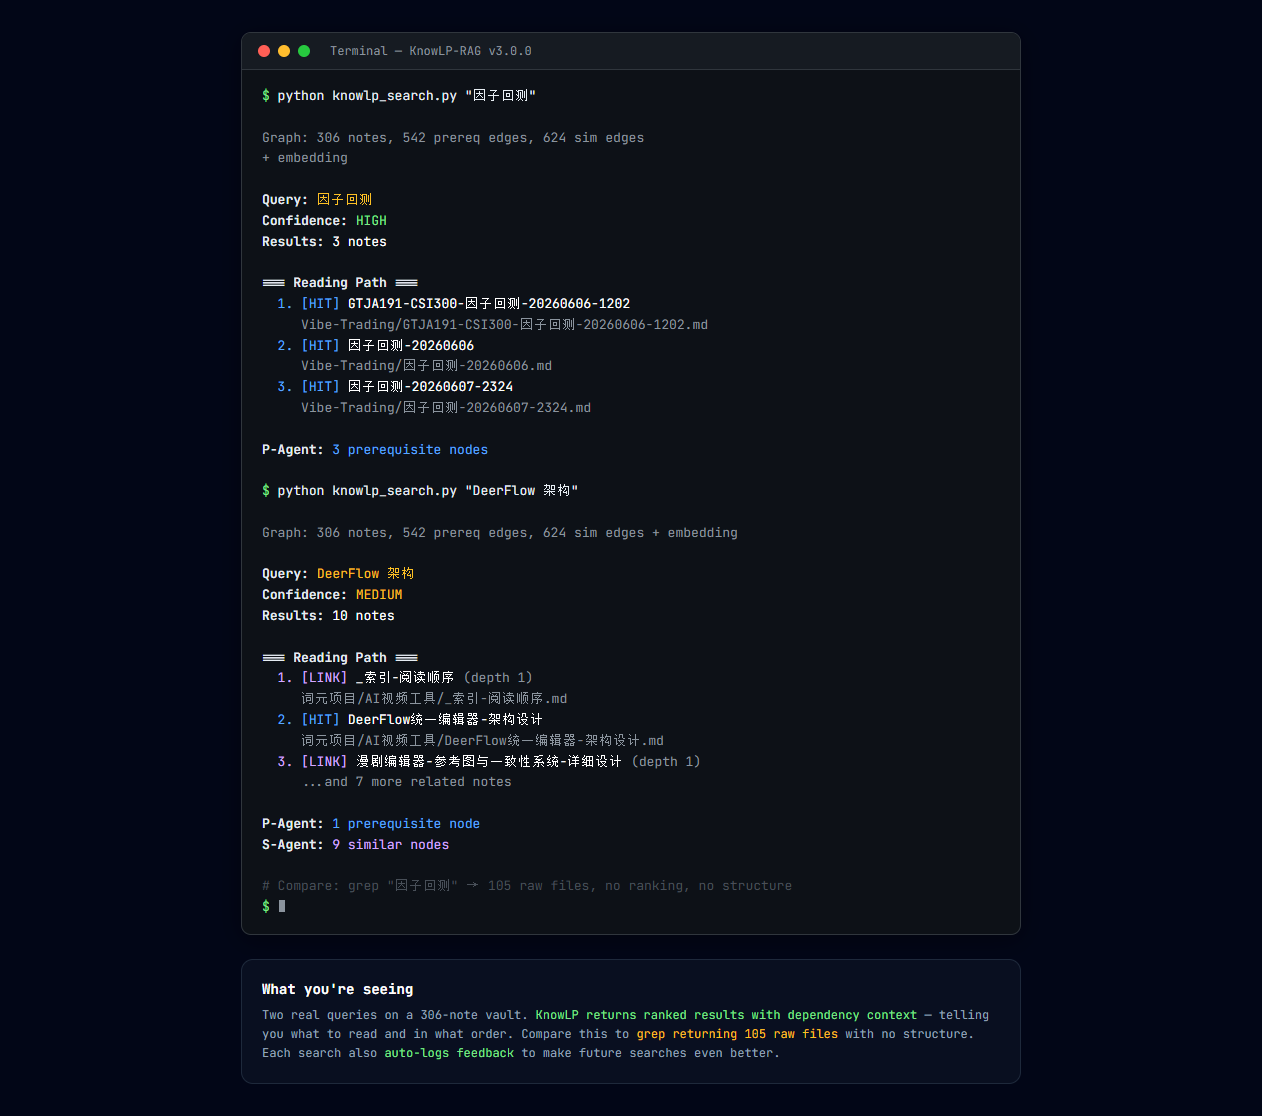
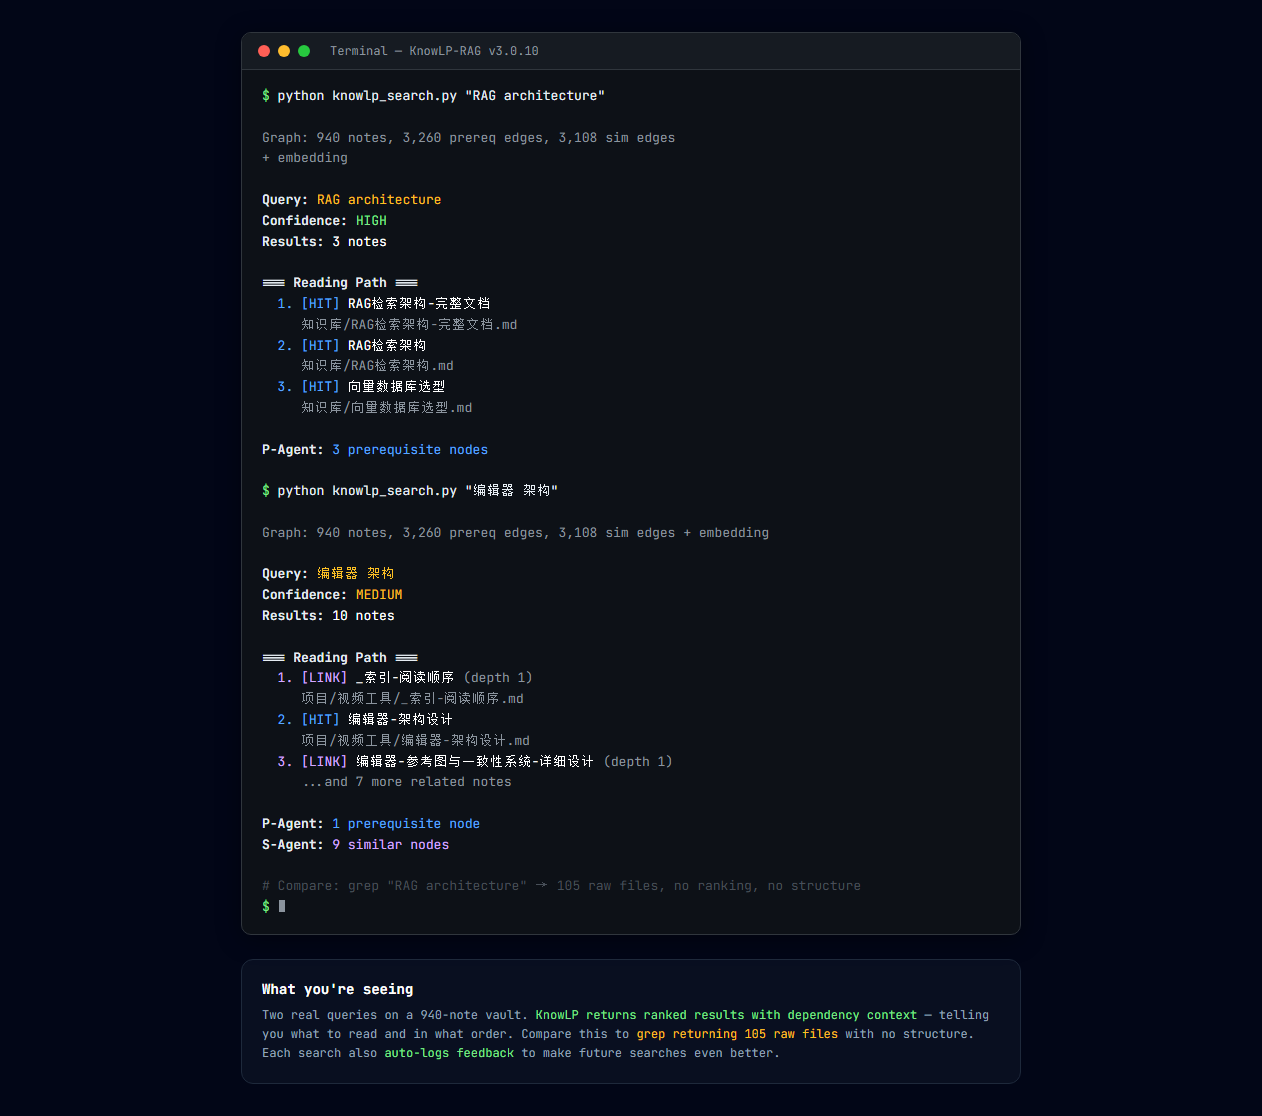
docs: re-capture the two screenshots and fix the last stale figure
architecture.png and demo.png are screenshots of the two pages just
synced, so both were behind the pages they illustrate - architecture.png
was from Aug 24. Re-rendered from the current HTML with headless Chrome at
the original dimensions (1262x1366 and 1262x1116) and the JetBrains Mono
webfont settled, so they drop in without changing the layout anywhere they
are used. Both are declared in screenshots.json.

One figure the first sweep missed because the pattern expected a space:
demo.html's closing card said "306-note vault" (hyphen), now 940-note.
Caught by looking at the rendered image rather than only at the grep.

diff --git a/docs/demo.html b/docs/demo.html
@@ -114,7 +114,7 @@
     <div class="card">
       <h3>What you're seeing</h3>
       <p>
-        Two real queries on a 306-note vault. <span class="highlight">KnowLP returns ranked results with dependency context</span> &mdash; telling you what to read and in what order.
+        Two real queries on a 940-note vault. <span class="highlight">KnowLP returns ranked results with dependency context</span> &mdash; telling you what to read and in what order.
         Compare this to <span class="warn">grep returning 105 raw files</span> with no structure.
         Each search also <span class="highlight">auto-logs feedback</span> to make future searches even better.
       </p>
